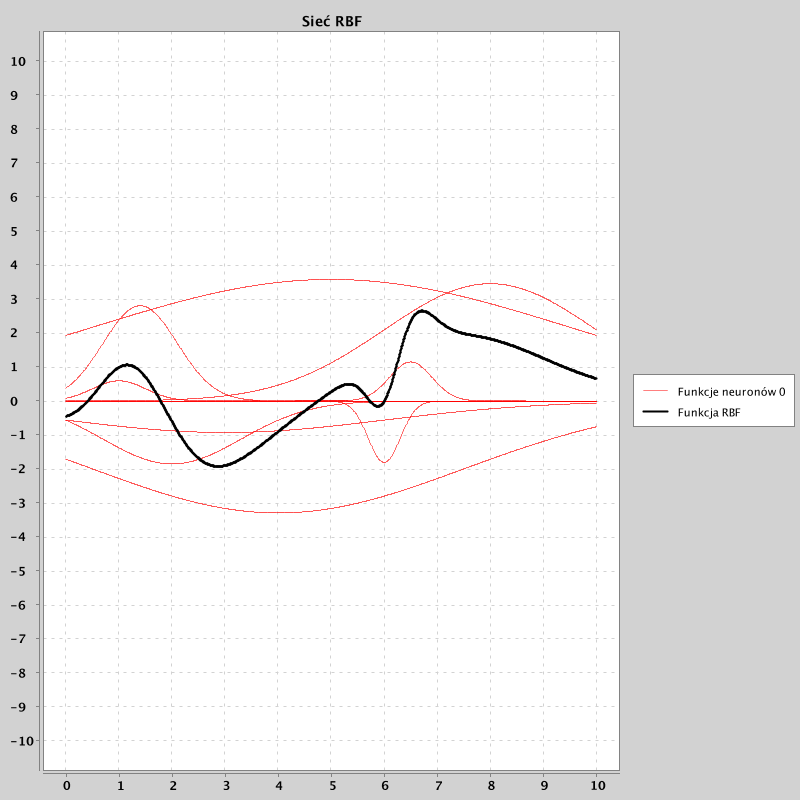
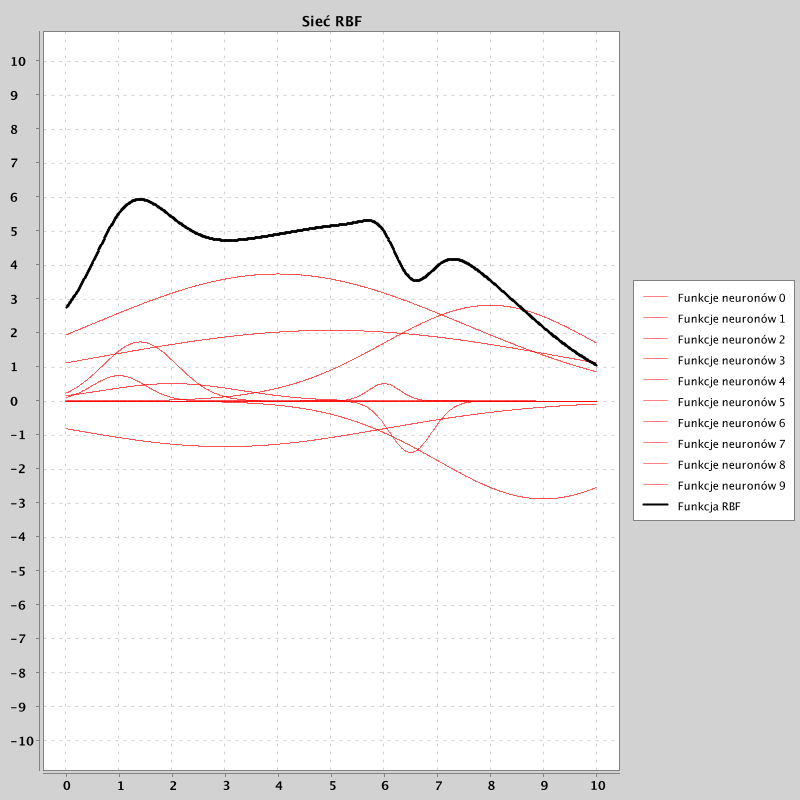
Fix plotting bias

diff --git a/src/main/kotlin/ui/Charts.kt b/src/main/kotlin/ui/Charts.kt
@@ -33,7 +33,6 @@ class Charts {
                 partialSeries.marker = SeriesMarkers.NONE
                 partialSeries.lineColor = Color.RED
                 partialSeries.lineWidth = 0.5f
-                partialSeries.isShowInLegend = idx == 0
             }
 
             val seriesData = chart.addSeries("Funkcja RBF", main.first, main.second)

diff --git a/src/main/kotlin/warmups/Warmup1.kt b/src/main/kotlin/warmups/Warmup1.kt
@@ -15,7 +15,7 @@ class Warmup1 {
 
         val partials = ArrayList<Pair<List<Double>, List<Double>>>()
         val outputNeuron = network.outputLayer.first()
-        for (idx in 0 until network.numRadialNeurons) {
+        for (idx in 1..network.numRadialNeurons) {
             partials.add(
                 Pair(
                     arguments,
